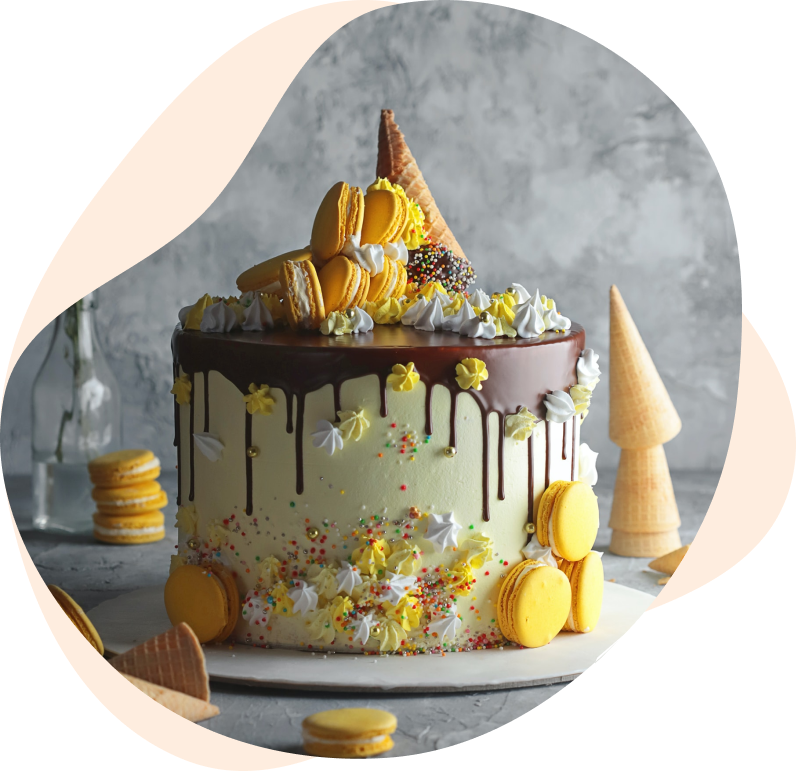
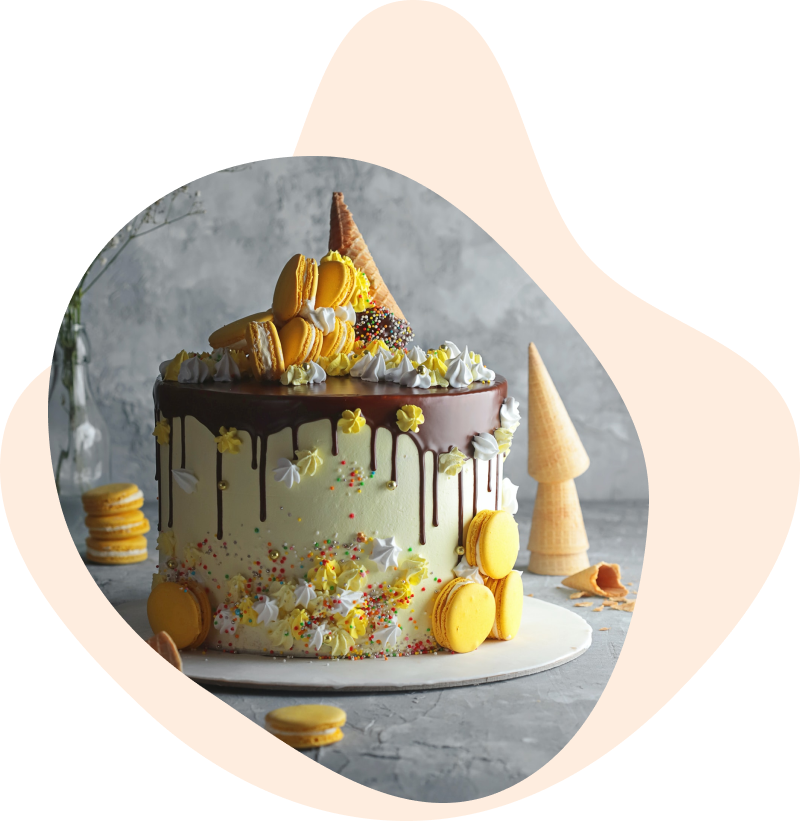
add responsive design

diff --git a/pages/index.js b/pages/index.js
@@ -1,8 +1,12 @@
 import Head from "next/head";
 import Image from "next/image";
+import Link from "next/link";
 import styles from "../styles/Home.module.css";
 import cake1 from "../assets/cake-1.png";
 import cake2 from "../assets/cake-2.png";
+import cake3 from "../assets/cake-3.jpg";
+import cake4 from "../assets/cake-4.jpg";
+import cake5 from "../assets/cake-5.jpg";
 
 export default function Home() {
   return (
@@ -15,30 +19,139 @@ export default function Home() {
 
       <main className={styles.main}>
         <header className={styles.leading}>
-          <h1 className={styles.leadingTitle}>Hey sugar!</h1>
-          <p className={styles.leadingCaption}>
-            Our cake bakery is small but with a big love for wonderful desserts.
-          </p>
+          <div className={styles.leadingText}>
+            <h1 className={styles.leadingTitle}>Hey sugar!</h1>
+            <p className={styles.leadingCaption}>
+              Our cake bakery is small but with a big love for wonderful
+              desserts.
+            </p>
+          </div>
           <div className={styles.leadingImage}>
-            <Image src={cake1} alt="cake" />
+            <Image src={cake1} alt="cake-1" />
           </div>
         </header>
 
         <section className={`${styles.section} ${styles.about}`}>
-          <h2 className={styles.sectionTitle}>Our love, for your love</h2>
-          <p className={styles.sectionCaption}>
-            Our bakery is set up to cater specifically to the cake lover, our
-            bakery is open to everyone but only the most special order. It would
-            be great if our bakery can make you get your own cake because
-            that&apos;s where our family comes from!
-          </p>
+          <div>
+            <h2 className={styles.sectionTitle}>Our love, for your love</h2>
+            <p className={styles.sectionCaption}>
+              Our bakery is set up to cater specifically to the cake lover, our
+              bakery is open to everyone but only the most special order. It
+              would be great if our bakery can make you get your own cake
+              because that&apos;s where our family comes from!
+            </p>
+          </div>
           <div className={styles.sectionImage}>
-            <Image src={cake2} alt="cake" />
+            <Image src={cake2} alt="cake-2" />
           </div>
         </section>
+
+        <section className={`${styles.section} ${styles.menu}`}>
+          <div className={styles.menus}>
+            <h2 className={styles.sectionTitle}>Menu</h2>
+            <p className={styles.sectionCaption}>
+              The cake is a form of sweet food that is usually baked. Cover a
+              wide range of preparations that can be simple or elaborate.
+            </p>
+          </div>
+          <div className={styles.menuList}>
+            <div className={styles.menuDetails}>
+              <h6 className={styles.menuTitle}>- Cassata -</h6>
+              <p className={styles.menuDesc}>
+                Cassata consists of round sponge cake moistened.
+              </p>
+              <span className={styles.menuPrice}>$7</span>
+            </div>
+            <div className={styles.menuDetails}>
+              <h6 className={styles.menuTitle}>- Fruitcake -</h6>
+              <p className={styles.menuDesc}>
+                Made with candied or dried fruit, nuts, and spices.
+              </p>
+              <span className={styles.menuPrice}>$7</span>
+            </div>
+            <div className={styles.menuDetails}>
+              <h6 className={styles.menuTitle}>- Panforte -</h6>
+              <p className={styles.menuDesc}>
+                Chewy Italian dessert containing fruits and nuts.
+              </p>
+              <span className={styles.menuPrice}>$7</span>
+            </div>
+            <div className={styles.menuDetails}>
+              <h6 className={styles.menuTitle}>- Castell -</h6>
+              <p className={styles.menuDesc}>
+                Cake made of sugar, flour, eggs, and starch syrup.
+              </p>
+              <span className={styles.menuPrice}>$8</span>
+            </div>
+            <div className={styles.menuDetails}>
+              <h6 className={styles.menuTitle}>- Garash cake -</h6>
+              <p className={styles.menuDesc}>
+                Garash is a type of chocolate cake in Bulgarian cuisine.
+              </p>
+              <span className={styles.menuPrice}>$8</span>
+            </div>
+            <div className={styles.menuDetails}>
+              <h6 className={styles.menuTitle}>- Petit four -</h6>
+              <p className={styles.menuDesc}>
+                A petit four is a small bite-sized confectionery.
+              </p>
+              <span className={styles.menuPrice}>$8</span>
+            </div>
+          </div>
+        </section>
+
+        <section className={`${styles.section}`}>
+          <h2 className={styles.sectionTitle}>
+            The taste that you will remember
+          </h2>
+          <p className={styles.sectionCaption}>
+            Our cake bakery is small but with big love for wonderful desserts.
+            Our cakes have all the ingredients for an amazing bakery.
+          </p>
+          <div className={styles.featureImages}>
+            <div className={styles.featureImage}>
+              <Image src={cake3} alt="cake-3" width={500} height={500} />
+            </div>
+            <div className={styles.featureImage}>
+              <Image src={cake4} alt="cake-4" width={500} height={500} />
+            </div>
+          </div>
+        </section>
+
+        <section className={styles.section}>
+          <h2 className={styles.sectionTitle}>Contact us for more details</h2>
+          <p className={styles.sectionCaption}>
+            If you want to know more about our bakery or the team we have
+            working at our bakery, let us know by leaving a messages.
+          </p>
+          <Link href="#contacts" scroll={false}>
+            <a className={styles.contactBtn}>Contact us</a>
+          </Link>
+        </section>
+
+        <div className={styles.bigImage}>
+          <Image src={cake5} alt="cake-5" layout="responsive" priority={true} />
+        </div>
       </main>
 
-      <footer className={styles.footer}></footer>
+      <footer id="contacts" className={`${styles.section} ${styles.footer}`}>
+        <div>
+          <p>Phone: 123-456-7890</p>
+          <p>Email: info@sugaro.com</p>
+        </div>
+        <div>
+          <p>
+            9737 Streich Squares St. <br />
+            San Francisco, CA 98856
+          </p>
+        </div>
+        <div>
+          <p>Mon - Fri: 9am - 8pm</p>
+          <p>Saturday: 10am - 5pm</p>
+          <p>Sunday: 10am - 5pm</p>
+        </div>
+        <p className={styles.developer}>Developed by LookQ</p>
+      </footer>
     </div>
   );
 }

diff --git a/styles/Home.module.css b/styles/Home.module.css
@@ -29,8 +29,122 @@
 }
 .sectionCaption {
   margin-bottom: 1.5rem;
+  max-width: 450px;
 }
 
 .about {
+  display: flex;
+  flex-direction: column;
+  align-items: center;
+  justify-content: center;
+  text-align: center;
   background-color: #f5f5fa;
+}
+
+.menu {
+  background-color: #fefeef;
+}
+.menus {
+  margin-bottom: 40px;
+}
+.menuList {
+  display: grid;
+  grid-template-columns: 1fr;
+  gap: 1.5rem;
+}
+.menuDetails {
+  display: flex;
+  flex-direction: column;
+  align-items: center;
+}
+.menuTitle {
+  font-size: 1.25rem;
+  margin-bottom: 0.5rem;
+  letter-spacing: 1px;
+}
+.menuDesc {
+  font-size: 14px;
+  margin-bottom: 1.5rem;
+}
+.menuPrice {
+  font-size: 14px;
+}
+
+.featureImages {
+  display: flex;
+  flex-direction: column;
+  align-items: center;
+}
+.featureImage {
+  margin: 0.5rem 0;
+}
+
+.contactBtn {
+  outline: none;
+  border: none;
+  padding: 12px 40px;
+  background-color: #ef717a;
+  color: #fff;
+  font-family: "Raleway", sans-serif;
+  font-size: 14px;
+  font-weight: bold;
+  line-height: 1.5;
+  border-radius: 4px;
+  cursor: pointer;
+}
+.contactBtn:hover {
+  background-color: #d65861;
+}
+
+.bigImage {
+  display: block;
+}
+.footer {
+  text-align: center;
+  background-color: #f5f5fa;
+  display: grid;
+  grid-template-columns: 1fr;
+  gap: 1.5rem;
+}
+
+@media (min-width: 768px) {
+  .leading {
+    position: relative;
+  }
+  .leadingText {
+    z-index: 10;
+    position: absolute;
+    top: 45%;
+    left: 72%;
+    transform: translate(-50%, -50%);
+    text-align: left;
+  }
+  .leadingTitle {
+    font-size: 4.5rem;
+  }
+  .leadingCaption {
+    transform: translate(30%, 0%);
+  }
+
+  .about {
+    flex-direction: row;
+    text-align: left;
+    justify-content: space-around;
+  }
+  .menuList {
+    grid-template-columns: repeat(3, 1fr);
+  }
+  .featureImages {
+    flex-direction: row;
+  }
+  .featureImage {
+    margin: 0 0.5rem;
+  }
+  .footer {
+    grid-template-columns: repeat(3, 1fr);
+    align-items: flex-start;
+  }
+  .developer {
+    grid-area: 2 / 2 / 3 / 3;
+  }
 }

diff --git a/styles/globals.css b/styles/globals.css
@@ -4,11 +4,7 @@ html,
 body {
   width: 100%;
   height: 100%;
-}
-
-a {
-  color: inherit;
-  text-decoration: none;
+  scroll-behavior: smooth;
 }
 
 * {
@@ -17,8 +13,14 @@ a {
   box-sizing: border-box;
 }
 
+a {
+  color: inherit;
+  text-decoration: none;
+}
+
 h1,
-h2 {
+h2,
+h6 {
   font-family: "Rozha One", serif;
   font-weight: normal;
 }
@@ -26,4 +28,9 @@ p {
   font-family: "Raleway", sans-serif;
   font-size: 14px;
   line-height: 1.5;
+}
+
+img {
+  width: 100%;
+  height: auto;
 }
